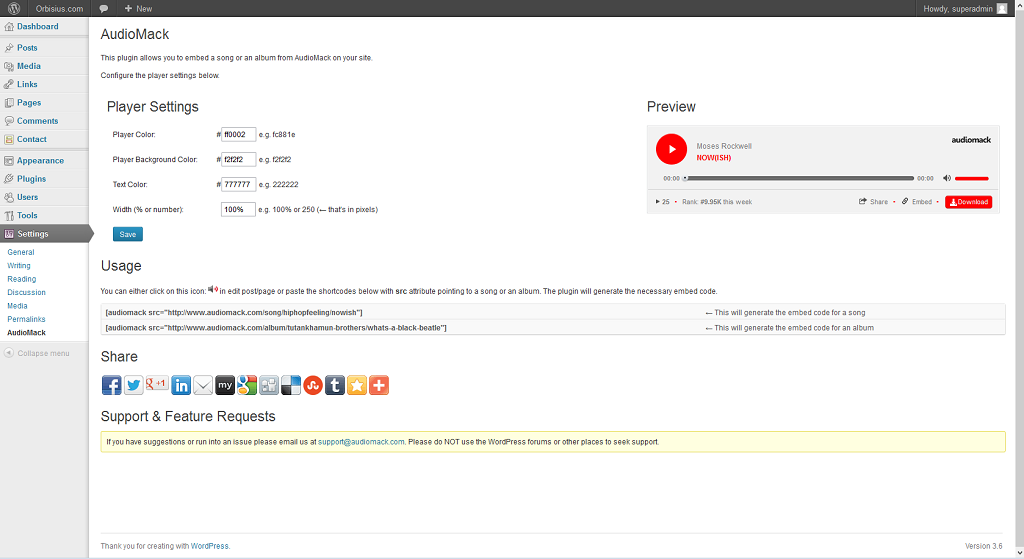
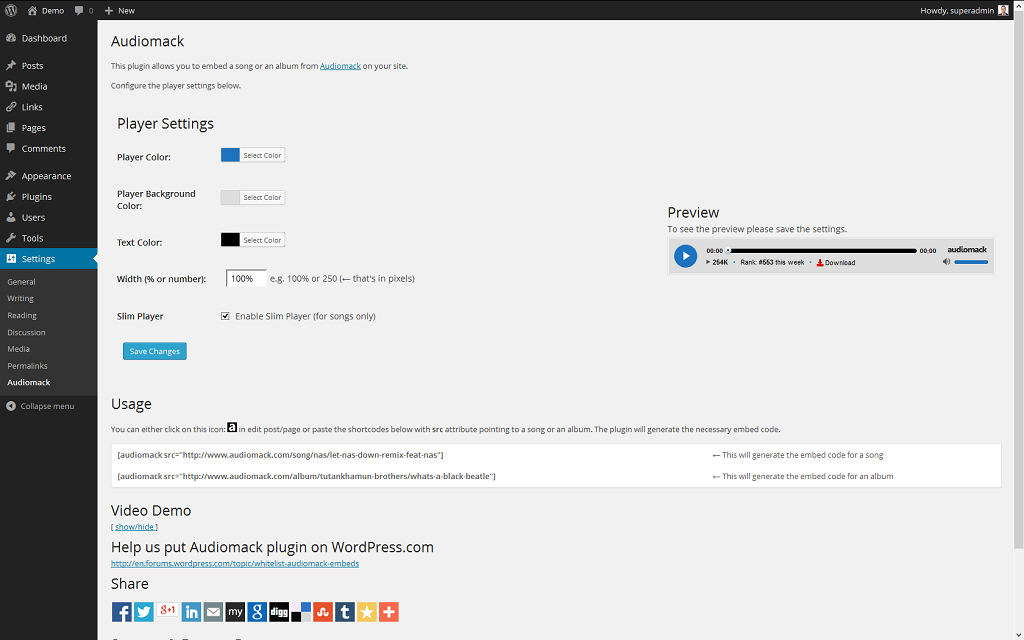
= 1.1.7 = * Improved the UI of the shortcode generator * Made the popup dialog to be 800x600 * Increased the font of the shortcode generator to 14px * Updated screenshots to match the look of WP 3.7+ * Deleted some old QR code files that were used for other purpose * Added a nice background color wh
git-svn-id: https://plugins.svn.wordpress.org/audiomack/trunk@900515 b8457f37-d9ea-0310-8a92-e5e31aec5664

diff --git a/tinymce/editor_plugin.min.js b/tinymce/editor_plugin.min.js
@@ -1,1 +1,1 @@
-(function(){tinymce.PluginManager.requireLangPack("tinymce_audiomack");tinymce.create("tinymce.plugins.tinymce_audiomack",{init:function(e,t){e.addCommand("mcetinymce_audiomack",function(){e.windowManager.open({file:ajaxurl+"?action=audiomack_ajax_render_popup_content",width:600+e.getLang("tinymce_audiomack.delta_width",0),height:400+e.getLang("tinymce_audiomack.delta_height",0),inline:1},{plugin_url:t})});e.addButton("tinymce_audiomack",{title:"Audiomack",cmd:"mcetinymce_audiomack",image:t+"/icon.jpg"});e.onNodeChange.add(function(e,t,n){t.setActive("tinymce_audiomack",n.nodeName=="IMG")})},getInfo:function(){return{longname:"Audiomack",author:"Audiomack",authorurl:"http://www.Audiomack.com",infourl:"http://www.Audiomack.com",version:"1.0.0"}}});tinymce.PluginManager.add("tinymce_audiomack",tinymce.plugins.tinymce_audiomack)})()
+(function(){tinymce.PluginManager.requireLangPack("tinymce_audiomack");tinymce.create("tinymce.plugins.tinymce_audiomack",{init:function(e,t){e.addCommand("mcetinymce_audiomack",function(){e.windowManager.open({file:ajaxurl+"?action=audiomack_ajax_render_popup_content",width:800+e.getLang("tinymce_audiomack.delta_width",0),height:600+e.getLang("tinymce_audiomack.delta_height",0),inline:1},{plugin_url:t})});e.addButton("tinymce_audiomack",{title:"Audiomack",cmd:"mcetinymce_audiomack",image:t+"/icon.jpg"})},getInfo:function(){return{longname:"Audiomack",author:"Audiomack",authorurl:"http://www.Audiomack.com",infourl:"http://www.Audiomack.com",version:"1.0.0"}}});tinymce.PluginManager.add("tinymce_audiomack",tinymce.plugins.tinymce_audiomack)})()

diff --git a/tinymce/editor_plugin.js b/tinymce/editor_plugin.js
@@ -17,8 +17,8 @@
 			ed.addCommand('mcetinymce_audiomack', function() {
 				ed.windowManager.open({
 					file : ajaxurl + '?action=audiomack_ajax_render_popup_content', // wp admin ajax variable
-					width : 600 + ed.getLang('tinymce_audiomack.delta_width', 0),
-					height : 400 + ed.getLang('tinymce_audiomack.delta_height', 0),
+					width : 800 + ed.getLang('tinymce_audiomack.delta_width', 0),
+					height : 600 + ed.getLang('tinymce_audiomack.delta_height', 0),
 					inline : 1
 				}, {
 					plugin_url : url // Plugin absolute URL
@@ -33,9 +33,9 @@
 			});
 
 			// Add a node change handler, selects the button in the UI when a image is selected
-			ed.onNodeChange.add(function(ed, cm, n) {
+			/*ed.onNodeChange.add(function(ed, cm, n) {
 				cm.setActive('tinymce_audiomack', n.nodeName == 'IMG');
-			});
+			});*/
 		},
 
 		/**

diff --git a/audiomack.php b/audiomack.php
@@ -3,7 +3,7 @@
   Plugin Name: Audiomack
   Plugin URI: http://www.audiomack.com/wordpress/
   Description: Audiomack is the place for artists to effortlessly share their music and for fans to discover and download free songs and albums.
-  Version: 1.1.6
+  Version: 1.1.7
   Author: Audiomack
   Author URI: http://audiomack.com
   License: GPL2
@@ -519,6 +519,17 @@ function audiomack_settings_page() {
 }
 
 /**
+ * Are we running WP 3.9 or higher?
+ * We need this because some of the TinyMCE API has changed.
+ */
+function audiomack_39up() {
+    global  $wp_version;
+    $wp_3_9_plus = floatval($wp_version) >= 3.9;
+
+    return $wp_3_9_plus ? 1 : 0;
+}
+
+/**
  * This is triggered by editor_plugin.min.js and WP proxies the ajax calls to this action.
  *
  * @return void
@@ -544,6 +555,7 @@ function audiomack_ajax_render_popup_content() {
 
             <script language="javascript" type="text/javascript">
                 var audiomack = {
+                    is_new_wp : <?php echo audiomack_39up(); ?>,
                 template : '<p>[audiomack src="%%AUDIO_SRC_URL%%"]</p><br/>',
                         /**
                          *
@@ -551,6 +563,14 @@ function audiomack_ajax_render_popup_content() {
                         init : function() {
                     tinyMCEPopup.resizeToInnerSize();
                     document.getElementById('audiomack_audio_src_url').focus();
+                },
+
+                close : function () {
+                    if (this.is_new_wp) {
+                        top.tinymce.activeEditor.windowManager.close();
+                    } else {
+                        tinyMCEPopup.close();
+                    }
                 },
                         /**
                          * This is necessary to be setup later because the data comes from AJAX.
@@ -577,14 +597,18 @@ function audiomack_ajax_render_popup_content() {
                     return content;
                 },
                         insert_content : function(content) {
-                    if (window.tinyMCE) {
+
+                    if (this.is_new_wp) {
+                        parent.tinyMCE.execCommand('mceInsertContent', false, content);
+                    } else if (window.tinyMCE) {
                         window.tinyMCE.execInstanceCommand('content', 'mceInsertContent', false, content);
                         //Peforms a clean up of the current editor HTML.
                         //tinyMCEPopup.editor.execCommand('mceCleanup');
                         //Repaints the editor. Sometimes the browser has graphic glitches.
                         tinyMCEPopup.editor.execCommand('mceRepaint');
-                        tinyMCEPopup.close();
                     }
+
+                    this.close();
                 },
                         /* // formatted using: http://jsonformatter.curiousconcept.com/
                          the response JSON should look like this:
@@ -666,8 +690,8 @@ function audiomack_ajax_render_popup_content() {
 
                             // create the Select button
                             result_item_buff += '<div class="select_wrapper">'
-                                    + '<input type="button" class="result_item_select app_positive_button" '
-                                    + 'data-url="' + link + '" value="Select" /> </div>';
+                                    + '<input type="button" class="result_item_select app_positive_button mceButton" '
+                                    + 'data-url="' + link + '" value="Select" /> </div><br/>';
 
                             result_item_buff += '</div> <!-- /result_item_wrapper -->';
 
@@ -763,8 +787,14 @@ function audiomack_ajax_render_popup_content() {
                     audiomack.init();
                 });</script>
             <style>
-                body {
-                    font-size: 12px !important;
+                /* Overiding defaults */
+                .panel_wrapper div.current {
+                    min-height: 500px;
+                    height: auto;
+                }
+                
+                body, html, #audiomack_form .tabs li a {
+                    font-size: 14px !important;
                 }
 
                 .audiomack_tinymce_plugin .error {
@@ -790,16 +820,19 @@ function audiomack_ajax_render_popup_content() {
                 .audiomack_tinymce_plugin .app_text_field {
                     border: 1px solid #888888;
                     padding: 3px;
+                    font-size: 14px;
                 }
 
                 .audiomack_tinymce_plugin #audiomack_search {
                     font-size: 12px;
                     margin: 2px 0;
                     padding: 2px 0;
+                    font-size: 14px;
                 }
 
+                /* the result container */
                 .audiomack_tinymce_plugin .results {
-                    height: 250px;
+                    min-height: 250px;
                     overflow-y: auto;
                 }
 
@@ -809,14 +842,19 @@ function audiomack_ajax_render_popup_content() {
                 }
 
                 .audiomack_tinymce_plugin .result_item_wrapper {
-                    float: left;
-                    width: 27%;
-                    height: 90px;
+                    display: inline-block;
+                    width: 30%;
+                    height: 95px;
                     min-height: 50;
                     margin: 1%;
                     border: 1px solid #888888;
                     padding: 2px;
                     text-align: center;
+                }
+
+                .audiomack_tinymce_plugin .result_item_wrapper:hover {
+                    border: 1px solid #777;
+                    background: #FFFF99;
                 }
 
                 .audiomack_tinymce_plugin .mceActionPanel {
@@ -836,11 +874,11 @@ function audiomack_ajax_render_popup_content() {
                 <div class="tabs">
                     <ul>
                         <li id="audiomack_tab" class="current"><span>
-                                <a href="javascript:mcTabs.displayTab('audiomack_tab','audiomack_panel');"
-                                   onmousedown="return false;"><?php _e("Audiomack", 'audiomack'); ?></a></span></li>
+                                <a href="javascript:void(0);"
+                                   onclick="mcTabs.displayTab('audiomack_tab','audiomack_panel');return false;"><?php _e("Audiomack", 'audiomack'); ?></a></span></li>
                         <li id="audiomack_search_tab"><span>
-                                <a href="javascript:mcTabs.displayTab('audiomack_search_tab','audiomack_search_panel');"
-                                   onmousedown="return false;"><?php _e("Search", 'audiomack'); ?></a></span></li>
+                                <a href="javascript:void(0);"
+                                   onclick="mcTabs.displayTab('audiomack_search_tab','audiomack_search_panel');return false;"><?php _e("Search", 'audiomack'); ?></a></span></li>
                     </ul>
                 </div>
 
@@ -870,13 +908,13 @@ function audiomack_ajax_render_popup_content() {
 
                         <div class="mceActionPanel">
                             <div style="float: left;">
-                                <input type="button" id="insert" name="insert" class='app_positive_button'
+                                <input type="button" id="audiomack_insert" name="insert" class='app_positive_button mceButton'
                                        value="<?php _e("Insert", 'audiomack'); ?>" onclick="audiomack.handle_regular_embed();" />
                             </div>
 
                             <div style="float: right;">
                                 <input type="button" id="cancel" name="cancel" class='app_negative_button'
-                                       value="<?php _e("Cancel", 'audiomack'); ?>" onclick="tinyMCEPopup.close();" />
+                                       value="<?php _e("Close", 'audiomack'); ?>" onclick="audiomack.close();" />
                             </div>
                         </div>
                     </div> <!-- /end audiomack_panel -->
@@ -893,7 +931,7 @@ function audiomack_ajax_render_popup_content() {
                                     <input type="text" id="audiomack_search_kwd" name="audiomack_search_kwd" value=""
                                            autocomplete='off' class='app_text_field' />
 
-                                    <input type="button" id="audiomack_search" name="audiomack_search" class='app_positive_button'
+                                    <input type="button" id="audiomack_search" name="audiomack_search" class='app_positive_button mceButton'
                                            value="<?php _e("Search", 'audiomack'); ?>" onclick="audiomack.search();" />
                                 </td>
                             </tr>
